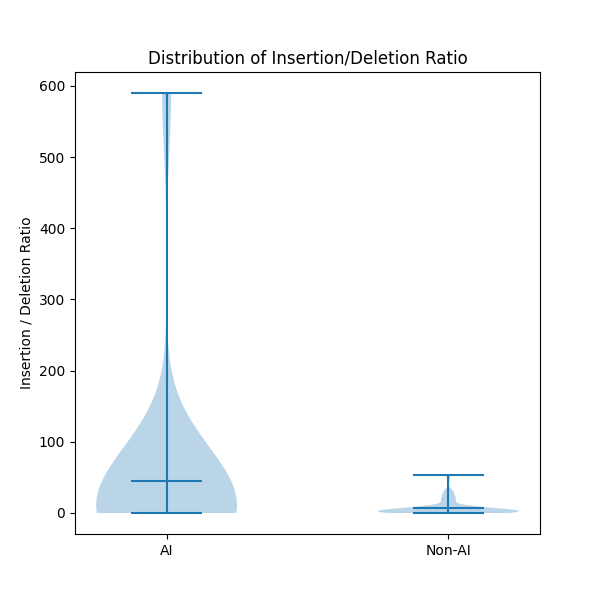
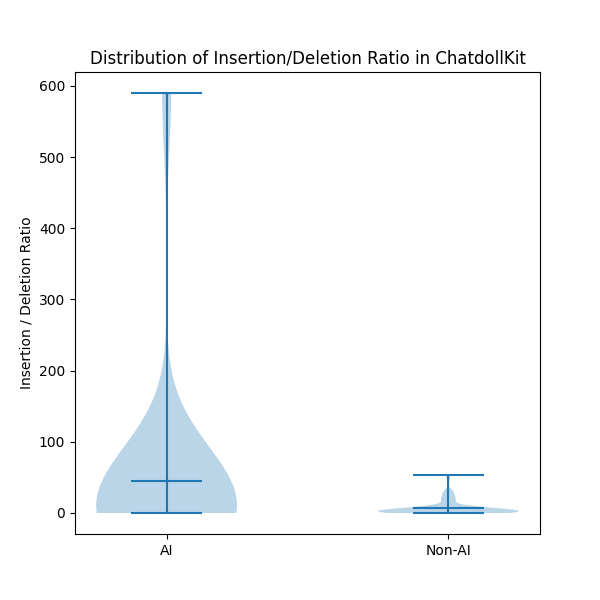
add name of repo in plot

Changed region(s): [[0.15, 0.06, 0.87, 0.12]]

diff --git a/plots.py b/plots.py
@@ -6,7 +6,7 @@ import os
 # files
 
 
-def duplication(df_ai, df_no_ai, path):
+def duplication(df_ai, df_no_ai, path, repo):
     mean_change_ai = df_ai["duplication_percentage"].mean()
     mean_change_no_ai = df_no_ai["duplication_percentage"].mean()
 
@@ -28,13 +28,13 @@ def duplication(df_ai, df_no_ai, path):
 
     plt.xticks([1, 2], ["AI", "Non-AI"])
     plt.ylabel("Duplication percentage")
-    plt.title("Distribution of duplication percentage")
+    plt.title(f"Distribution of duplication percentage in {repo}")
 
     plt.savefig(f"{path}/duplication.png")
     plt.clf()
 
 
-def changes_in_30_days(df_ai, df_no_ai, path):
+def changes_in_30_days(df_ai, df_no_ai, path, repo):
     mean_change_ai = df_ai["changes_in_30_days"].mean()
     mean_change_no_ai = df_no_ai["changes_in_30_days"].mean()
 
@@ -58,13 +58,13 @@ def changes_in_30_days(df_ai, df_no_ai, path):
 
     plt.xticks([1, 2], ["AI", "Non-AI"])
     plt.ylabel("Number of changes in 30 days")
-    plt.title("Distribution of changes in 30 days")
+    plt.title(f"Distribution of changes in 30 days in {repo}")
 
     plt.savefig(f"{path}/changes_in_30_days.png")
     plt.clf()
 
 
-def files(df_ai, df_no_ai, path):
+def files(df_ai, df_no_ai, path, repo):
     mean_value_AI = df_ai["files"].mean()
     mean_value_NO_AI = df_no_ai["lines"].mean()
 
@@ -83,13 +83,13 @@ def files(df_ai, df_no_ai, path):
 
     plt.xticks([1, 2], ["AI", "Non-AI"])
     plt.ylabel("Files changed")
-    plt.title("Distribution of files changed")
+    plt.title(f"Distribution of files changed in {repo}")
 
     plt.savefig(f"{path}/files.png")
     plt.clf()
 
 
-def mean_lines(df_ai, df_no_ai, path):
+def mean_lines(df_ai, df_no_ai, path, repo):
     mean_value_AI = df_ai["lines"].mean()
     mean_value_NO_AI = df_no_ai["lines"].mean()
 
@@ -108,13 +108,13 @@ def mean_lines(df_ai, df_no_ai, path):
 
     plt.xticks([1, 2], ["AI", "Non-AI"])
     plt.ylabel("Lines changed")
-    plt.title("Distribution of Lines changed")
+    plt.title(f"Distribution of Lines changed in {repo}")
 
     plt.savefig(f"{path}/lines.png")
     plt.clf()
 
 
-def insertion_deletion_ratio(df_ai, df_no_ai, path):
+def insertion_deletion_ratio(df_ai, df_no_ai, path, repo):
     # Ratio of inserts and deletetions
 
     df_ai["ratio_insertion_deletion"] = df_ai["insertions"] / df_ai[
@@ -145,13 +145,13 @@ def insertion_deletion_ratio(df_ai, df_no_ai, path):
 
     plt.xticks([1, 2], ["AI", "Non-AI"])
     plt.ylabel("Insertion / Deletion Ratio")
-    plt.title("Distribution of Insertion/Deletion Ratio")
+    plt.title(f"Distribution of Insertion/Deletion Ratio in {repo}")
 
     plt.savefig(f"{path}/ratio.png")
     plt.clf()
 
 
-def insertions(df_ai, df_no_ai, path):
+def insertions(df_ai, df_no_ai, path, repo):
     # Insertions only
 
     df_AI = df_ai
@@ -175,13 +175,13 @@ def insertions(df_ai, df_no_ai, path):
 
     plt.xticks([1, 2], ["AI", "Non-AI"])
     plt.ylabel("Insertions")
-    plt.title("Distribution of insertions")
+    plt.title(f"Distribution of insertions in {repo}")
 
     plt.savefig(f"{path}/insertions.png")
     plt.clf()
 
 
-def deletions(df_ai, df_no_ai, path):
+def deletions(df_ai, df_no_ai, path, repo):
     # Deletions only
 
     df_AI = df_ai
@@ -204,13 +204,13 @@ def deletions(df_ai, df_no_ai, path):
 
     plt.xticks([1, 2], ["AI", "Non-AI"])
     plt.ylabel("Deletions")
-    plt.title("Distribution of deletions")
+    plt.title(f"Distribution of deletions in {repo}")
 
     plt.savefig(f"{path}/deletions.png")
     plt.clf()
 
 
-def reverted_commits(df_ai, df_no_ai, path):
+def reverted_commits(df_ai, df_no_ai, path, repo):
     count_ai = df_ai["is_reverted"].sum()
     count_no_ai = df_no_ai["is_reverted"].sum()
 
@@ -230,12 +230,12 @@ def reverted_commits(df_ai, df_no_ai, path):
         f.close()
 
     plt.ylabel("Number of Reverted Commits")
-    plt.title("Reverted Commits: AI vs Non-AI")
+    plt.title(f"Reverted Commits: AI vs Non-AI in {repo}")
     plt.savefig(f"{path}/reverted.png")
     plt.clf()
 
 
-def cc_plots(df_ai, df_no_ai, path):
+def cc_plots(df_ai, df_no_ai, path, repo):
     mean_value_AI = df_ai["delta_cc_norm"].mean()
     mean_value_NO_AI = df_no_ai["delta_cc_norm"].mean()
 
@@ -254,13 +254,13 @@ def cc_plots(df_ai, df_no_ai, path):
 
     plt.xticks([1, 2], ["AI", "Non-AI"])
     plt.ylabel("Cyclomatic Complexity")
-    plt.title("Distribution of Cyclomatic Complexity")
+    plt.title(f"Distribution of Cyclomatic Complexity in {repo}")
 
     plt.savefig(f"{path}/cc.png")
     plt.clf()
 
 
-def failed_pipelines(df_ai, df_no_ai, path):
+def failed_pipelines(df_ai, df_no_ai, path, repo):
     count_ai = df_ai["failed_pipeline"].sum()
     count_no_ai = df_no_ai["failed_pipeline"].sum()
 
@@ -280,7 +280,7 @@ def failed_pipelines(df_ai, df_no_ai, path):
         f.close()
 
     plt.ylabel("Number of Failed Pipelines")
-    plt.title("Failed Pipelines: AI vs Non-AI")
+    plt.title(f"Failed Pipelines: AI vs Non-AI in {repo}")
     plt.savefig(f"{path}/failed_pipelines.png")
     plt.clf()
 
@@ -304,22 +304,30 @@ def main():
             df_ai = pd.read_csv(path_ai)
             df_no_ai = pd.read_csv(path_no_ai)
 
-            mean_lines(df_ai=df_ai, df_no_ai=df_no_ai, path=output_path)
-            insertion_deletion_ratio(df_ai=df_ai, df_no_ai=df_no_ai, path=output_path)
-            insertions(df_ai=df_ai, df_no_ai=df_no_ai, path=output_path)
-            deletions(df_ai=df_ai, df_no_ai=df_no_ai, path=output_path)
-            reverted_commits(df_ai=df_ai, df_no_ai=df_no_ai, path=output_path)
-            failed_pipelines(df_ai=df_ai, df_no_ai=df_no_ai, path=output_path)
-            changes_in_30_days(df_ai=df_ai, df_no_ai=df_no_ai, path=output_path)
-            duplication(df_ai=df_ai, df_no_ai=df_no_ai, path=output_path)
-            files(df_ai=df_ai, df_no_ai=df_no_ai, path=output_path)
+            mean_lines(df_ai=df_ai, df_no_ai=df_no_ai, path=output_path, repo=repos)
+            insertion_deletion_ratio(
+                df_ai=df_ai, df_no_ai=df_no_ai, path=output_path, repo=repos
+            )
+            insertions(df_ai=df_ai, df_no_ai=df_no_ai, path=output_path, repo=repos)
+            deletions(df_ai=df_ai, df_no_ai=df_no_ai, path=output_path, repo=repos)
+            reverted_commits(
+                df_ai=df_ai, df_no_ai=df_no_ai, path=output_path, repo=repos
+            )
+            failed_pipelines(
+                df_ai=df_ai, df_no_ai=df_no_ai, path=output_path, repo=repos
+            )
+            changes_in_30_days(
+                df_ai=df_ai, df_no_ai=df_no_ai, path=output_path, repo=repos
+            )
+            duplication(df_ai=df_ai, df_no_ai=df_no_ai, path=output_path, repo=repos)
+            files(df_ai=df_ai, df_no_ai=df_no_ai, path=output_path, repo=repos)
 
             path_ai = f"csv/{language}/{repos}/cc_results_AI.csv"
             path_no_ai = f"csv/{language}/{repos}/cc_results_nonAI.csv"
             df_ai = pd.read_csv(path_ai)
             df_no_ai = pd.read_csv(path_no_ai)
 
-            cc_plots(df_ai=df_ai, df_no_ai=df_no_ai, path=output_path)
+            cc_plots(df_ai=df_ai, df_no_ai=df_no_ai, path=output_path, repo=repos)
 
 
 if __name__ == "__main__":
